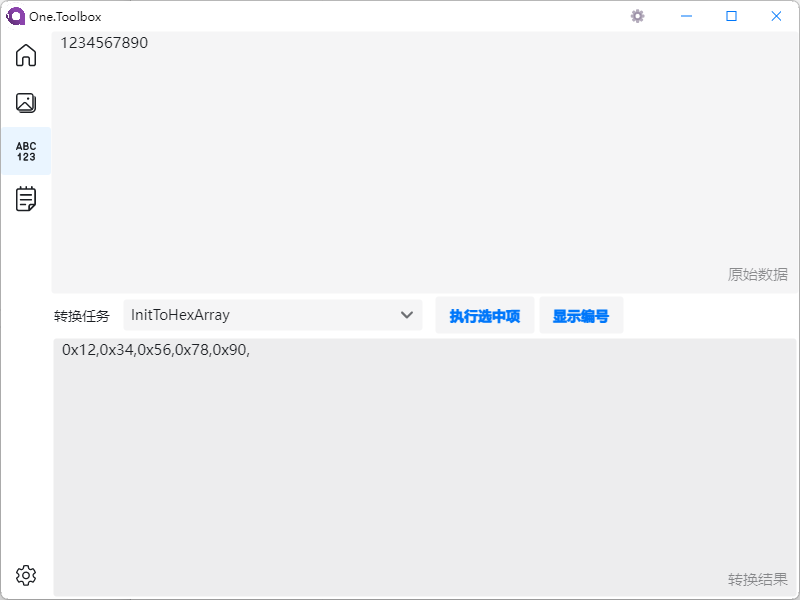
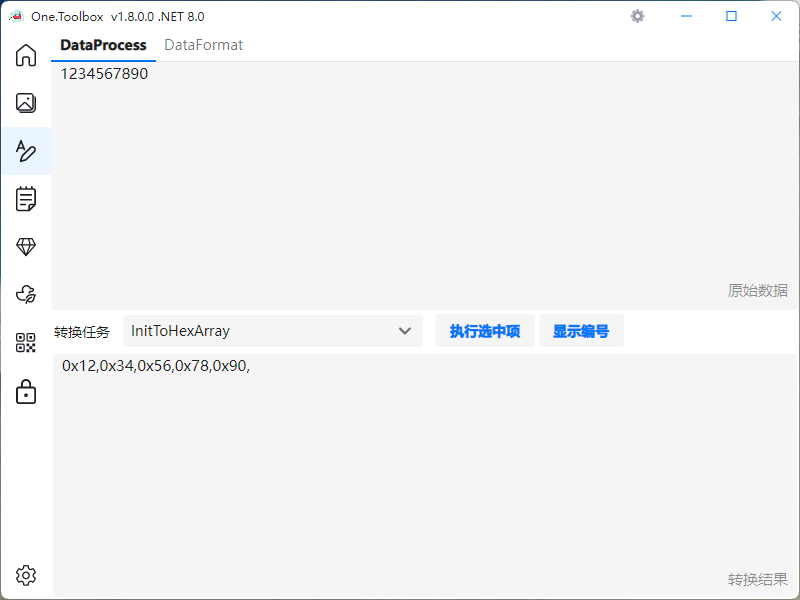
处理桌面版图标不显得的bug； 新增功能说明；

diff --git a/One.Control/WindowsTitleBar/WindowsTitleBar.cs b/One.Control/WindowsTitleBar/WindowsTitleBar.cs
@@ -18,10 +18,10 @@ namespace One.Control;
 [TemplatePart("PART_MaximizeIcon", typeof(PathIcon))]
 [TemplatePart("PART_MaximizeToolTip", typeof(ToolTip))]
 [TemplatePart("PART_MinimizeButton", typeof(Button))]
-[TemplatePart("PART_SystemChromeTitle", typeof(TextBlock))]
+//[TemplatePart("PART_SystemChromeTitle", typeof(TextBlock))]
 [TemplatePart("PART_TitleBar", typeof(Grid))]
 [TemplatePart("PART_TitleBarBackground", typeof(StackPanel))]
-[TemplatePart("PART_WindowIcon", typeof(Image))]
+//[TemplatePart("PART_WindowIcon", typeof(Image))]
 public class WindowsTitleBar : ContentControl
 {
     private Button minimizeButton;
@@ -93,15 +93,15 @@ public class WindowsTitleBar : ContentControl
             maximizeToolTip = e.NameScope.Find<ToolTip>("PART_MaximizeToolTip");
             minimizeButton = e.NameScope.Find<Button>("PART_MinimizeButton");
             //seamlessMenuBar = e.NameScope.Find<NativeMenuBar>("SeamlessMenuBar");
-            systemChromeTitle = e.NameScope.Find<TextBlock>("PART_SystemChromeTitle");
+            //systemChromeTitle = e.NameScope.Find<TextBlock>("PART_SystemChromeTitle");
             titleBar = e.NameScope.Find<Grid>("PART_TitleBar");
             titleBarBackground = e.NameScope.Find<StackPanel>("PART_TitleBarBackground");
-            windowIcon = e.NameScope.Find<Image>("PART_WindowIcon");
+            //windowIcon = e.NameScope.Find<Image>("PART_WindowIcon");
 
             minimizeButton.Click += MinimizeWindow;
             maximizeButton.Click += MaximizeWindow;
             closeButton.Click += CloseWindow;
-            windowIcon.DoubleTapped += CloseWindow;
+            //windowIcon.DoubleTapped += CloseWindow;
 
             SubscribeToWindowState();
         }

diff --git a/README.md b/README.md
@@ -54,7 +54,17 @@
 ### 显示编号
 ![image](https://github.com/KleinPan/Avalonia.One.Toolbox/blob/master/docs/ShowIndex.png?raw=true)
 
+### Notes
+![image](https://github.com/KleinPan/Avalonia.One.Toolbox/blob/master/docs/Notes.png?raw=true)
 
+### HashTools
+![image](https://github.com/KleinPan/Avalonia.One.Toolbox/blob/master/docs/HashTools.png?raw=true)
+
+### QRCode
+![image](https://github.com/KleinPan/Avalonia.One.Toolbox/blob/master/docs/QRCode.png?raw=true)
+
+### FileMonitor
+![image](https://github.com/KleinPan/Avalonia.One.Toolbox/blob/master/docs/FileMonitor.png?raw=true)
 
 
 
